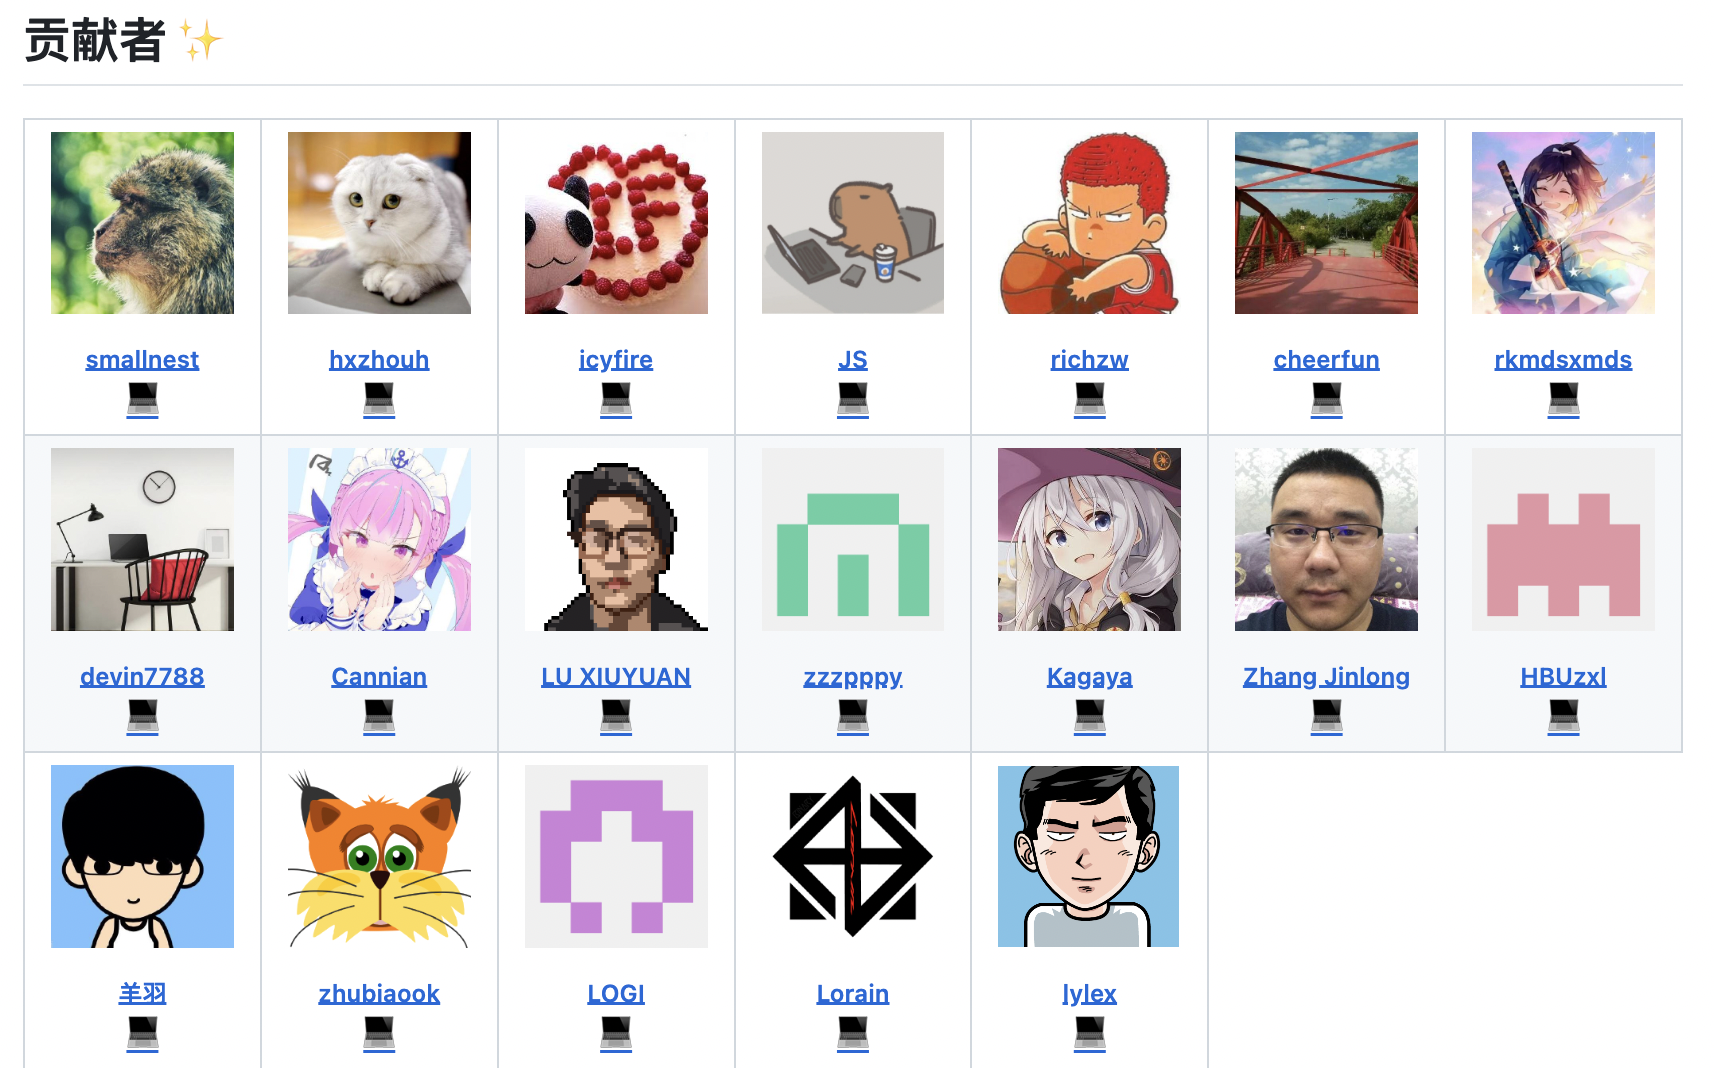
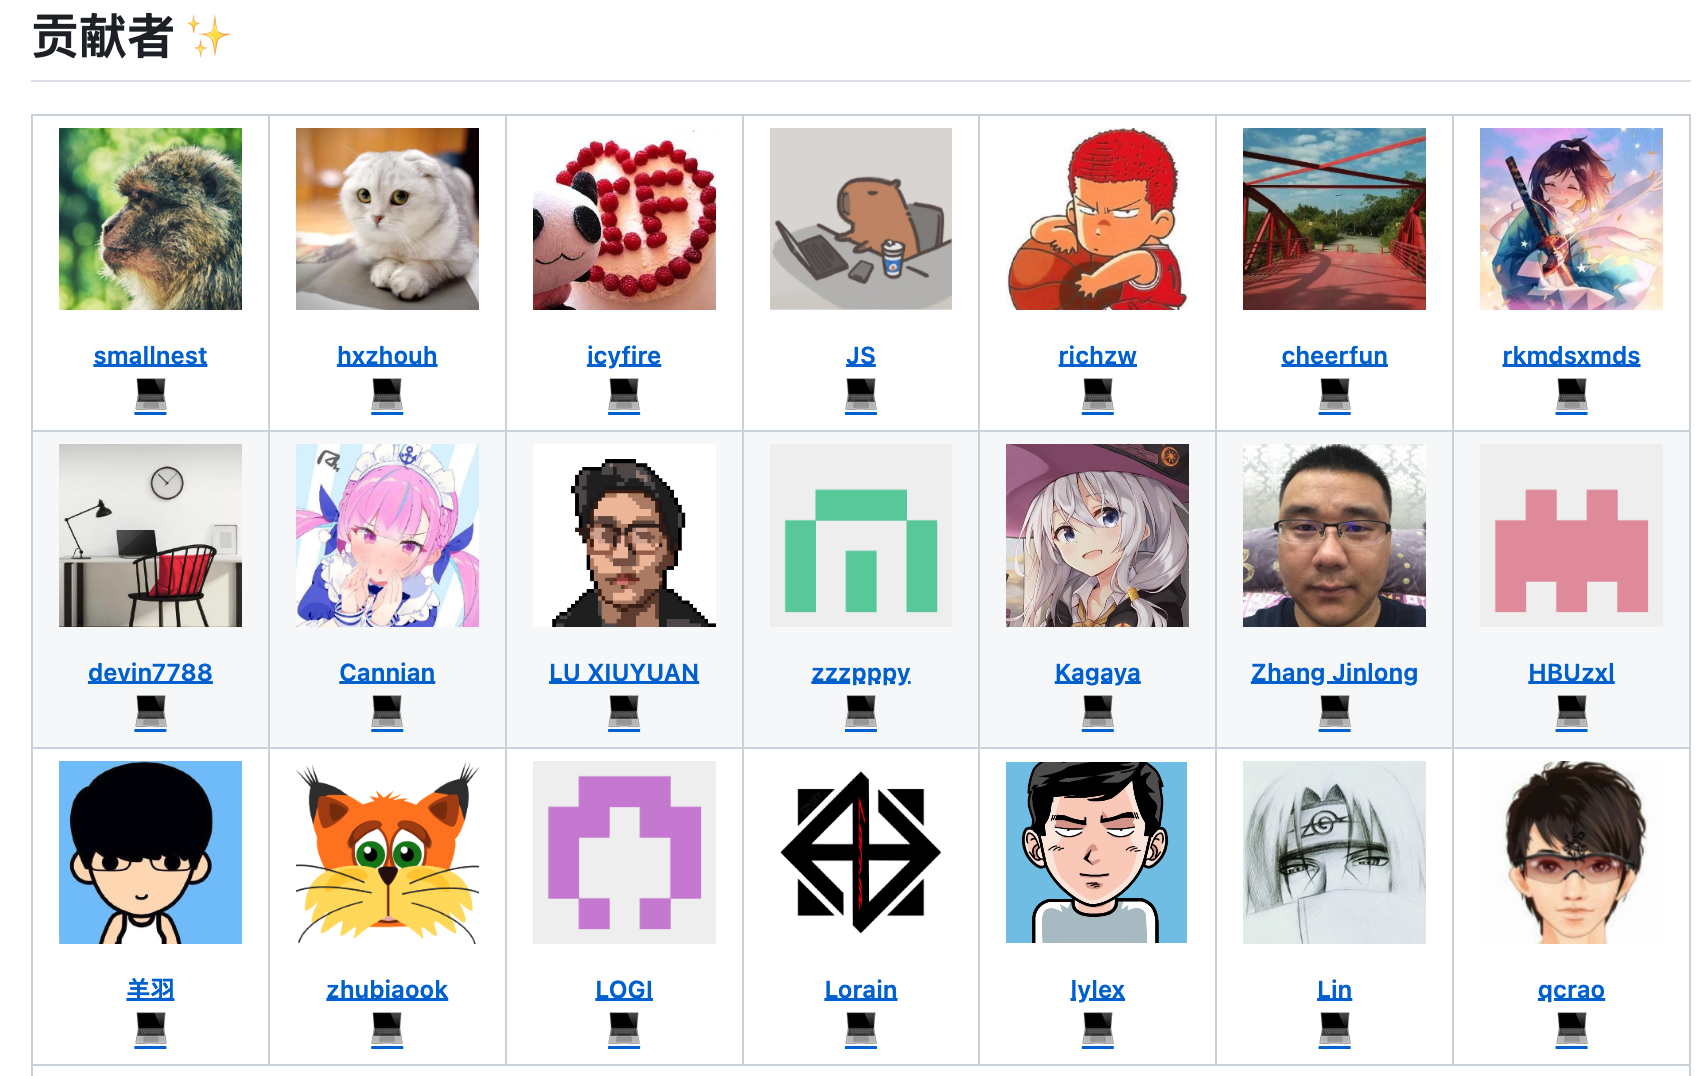
finished

diff --git a/README.md b/README.md
@@ -10,7 +10,7 @@ Go tips from [Phuong Le](https://twitter.com/func25).
 
 <img src="src/images/wechat.png" width="200px">
 
-**翻译进度:**： 74/78 = 95%
+**翻译进度:**： 78/78 = 100%
 
 ## 翻译规范
 
@@ -59,7 +59,7 @@ Go tips from [Phuong Le](https://twitter.com/func25).
 | 4 | Parse an Array into a Slice | smallnest  |
 | 5 | Method Chaining | smallnest  |
 | 6 | Underscore Import | icyfire    |
-| 7 |  作者已删除|            |
+| 7 | 作者已删除|            |
 | 8 | Wrapping Errors | icyfire    |
 | 9 | Compile-Time Interface Verification | icyfire    |
 | 10 | Avoid Naked Parameters  | smallnest  |
@@ -68,10 +68,10 @@ Go tips from [Phuong Le](https://twitter.com/func25).
 | 13 | Empty slice or, even better, NIL SLICE | icyfire    |
 | 14 | Error messages should not be capitalized or end with punctuation | icyfire    |
 | 15 | When to use Dot (.) Import and Blank (_) Import? |      qcrao      |
-| 16 |  Don't Return -1 or nil to Indicate Error. | kagaya85   |
+| 16 | Don't Return -1 or nil to Indicate Error. | kagaya85   |
 | 17 | Understanding "Return fast, return early" to avoid nested code | icyfire    |
-| 18 |  Define interfaces in the consumer package, not the producer | syjs10        |
-| 19 | 已认领 |            |
+| 18 | Define interfaces in the consumer package, not the producer | syjs10        |
+| 19 | Avoid named results unless necessary for documentation. |     smallnest       |
 | 20 | Pass values, not pointers | smallnest  |
 | 21 | Prefer using a pointer receiver when defining methods |     QingyaFan       |
 | 22 | Simplify function signatures with structs or variadic options | zhubiaook  |
@@ -96,7 +96,7 @@ Go tips from [Phuong Le](https://twitter.com/func25).
 | 41 | Sort your fields in your struct from largest to smallest | justlorain |
 | 42 | Single Touch Error Handling, Less Noise. | zhubiaook |
 | 43 | Gracefully Shut Down Your Application |    LinPr,smallnest       |
-| 44 |  Intentionally Stop with Must Functions | syjs10    |
+| 44 | Intentionally Stop with Must Functions | syjs10    |
 | 45 | Always Manage Your Goroutine Lifetime. | stonemax |
 | 46 | Avoid using break in switch cases, except when paired with labels | baxiang |
 | 47 | Table-driven tests, subtests, and parallel tests | devin7788 |
@@ -116,43 +116,23 @@ Go tips from [Phuong Le](https://twitter.com/func25).
 | 61 | Making a Type with Built-In Locking (sync.Mutex embedding) | richzw     |
 | 62 | context.Value is not our friend | hawkinggg  |
 | 63 | Avoid time.Sleep(), it's not context-aware and can't be interrupted | richzw     |
-| 64 |  Make main() clean and testable. |    syjs10        |
+| 64 | Make main() clean and testable. |    syjs10        |
 | 65 | Returning Pointers Made Easy with Generics | miniLCT    |
 | 66 | Simplify Your Error Messages in fmt.Errorf | smallnest  |
 | 67 | How to deal with long function signatures | richzw     |
 | 68 | Use the deadcode tool to find and remove unused functions | richzw     |
 | 69 | Manage multiple goroutines with errgroup | richzw     |
-| 70 |  Implement a context-aware sleep function | hxzhouh    |
+| 70 | Implement a context-aware sleep function | hxzhouh    |
 | 71 | sync.Pool, make it typed-safe with generics | QingyaFan  |
-| 72 |  Case-Insensitive string comparison with strings.EqualFold | syjs10     |
-| 73 |   Implement String() for enum with the stringer tool | syjs10     |
-| 74 |  Make time.Duration clear and easy to understand | richzw     |
+| 72 | Case-Insensitive string comparison with strings.EqualFold | syjs10     |
+| 73 | Implement String() for enum with the stringer tool | syjs10     |
+| 74 | Make time.Duration clear and easy to understand | richzw     |
 | 75 | Optimize multiple calls with singleflight | hxzhouh    |
-| 76 |  Result forwarding in function calls | syjs10     |
-| 77 |  Buffered channels as semaphores to limit goroutine execution | QingyaFan  |
+| 76 | Result forwarding in function calls | syjs10     |
+| 77 | Buffered channels as semaphores to limit goroutine execution | QingyaFan  |
 | 78 | Non-blocking channel send trick | hxzhouh    |
 | 79 |  |            |
 | 80 |  |            |
-| 81 |  |            |
-| 82 |  |            |
-| 83 |  |            |
-| 84 |  |            |
-| 85 |  |            |
-| 86 |  |            |
-| 87 |  |            |
-| 88 |  |            |
-| 89 |  |            |
-| 90 |  |            |
-| 91 |  |            |
-| 92 |  |            |
-| 93 |  |            |
-| 94 |  |            |
-| 95 |  |            |
-| 96 |  |            |
-| 97 |  |            |
-| 98 |  |            |
-| 99 |  |            |
-| 100 |  |            |
 
 ## 生成文档
 

diff --git a/src/019.md b/src/019.md
@@ -1,0 +1,47 @@
+# Tip #19 除非出于文档说明需要，否则避免使用命名结果
+
+>  原始链接：[ Golang Tip #19: Avoid named results unless necessary for documentation.](https://twitter.com/func25/status/1757024709605265674)
+>
+
+**注意**：个人而言，我总是避免使用命名结果，因为它们会鼓励使用裸露返回语句。
+
+命名结果可以在源代码及生成的文档（如godoc、pkgsite（http://pkg.go.dev））中增强代码可读性。
+
+但了解何时使用它们至关重要，以下是一些关键要点：
+
+## 必要时进行澄清
+
+**建议**：
+- 如果函数返回多个同类型值，使用命名结果。
+- 若其用途不明显，为清晰起见应为其命名。
+
+![](./images/019/1.png)
+
+**不要**
+
+- 仅仅为了避免在函数内部声明变量而使用命名结果。
+- 为了避免反复书写“return nil, err”，而倾向于简单地使用“return”。
+
+## 长函数中避免使用裸露(naked)返回
+人们常常对裸露返回持谨慎态度，因为它们可能导致代码可读性降低并影响清晰度。
+
+但在短小的函数中，它们完全是可以接受的：
+![](./images/019/2.png)
+
+一眼即可明了其意图，在较长函数中则应避免使用。
+
+为保持代码可读性，与命名结果结合使用时，您有权选择是否使用裸露返回。
+
+## 对于延迟闭包是必要的
+若需在延迟函数调用中修改返回值，为结果参数命名至关重要。
+![](./images/019/3.png)
+
+此处为结果参数赋予名称 `result` 和 `err` 具有特定目的。
+
+这使得这些变量在延迟闭包内可访问，从而根据函数执行结果或针对 panic 进行相应修改。
+
+## 即使在返回多个结果的情况下，有些情况也不必命名
+当函数返回相同类型的对象时，特别是在某一类型的成员方法中，为每个返回的对象命名可能会造成冗余，并使我们的文档显得杂乱。
+
+或者，该类型本身可能已经具有自解释性。
+![](./images/019/4.png)`

diff --git a/src/SUMMARY.md b/src/SUMMARY.md
@@ -18,6 +18,7 @@
 - [Tip #16 不要通过返回 -1 或者 nil 来表示错误](./016.md)
 - [Tip #17 理解“尽快返回、尽早返回”，避免代码嵌套](./017.md)
 - [Tip #18 在使用者的包中定义接口，而不是提供者的包中定义](./018.md)
+- [Tip #19 除非出于文档说明需要，否则避免使用命名结果](./019.md)
 - [Tip #20 传递值，而不是指针](./020.md)
 - [Tip #21 定义方法时，优先使用指针作为接收器](./021.md)
 - [Tip #22 使用结构体或变长参数简化函数签名](./022.md)
